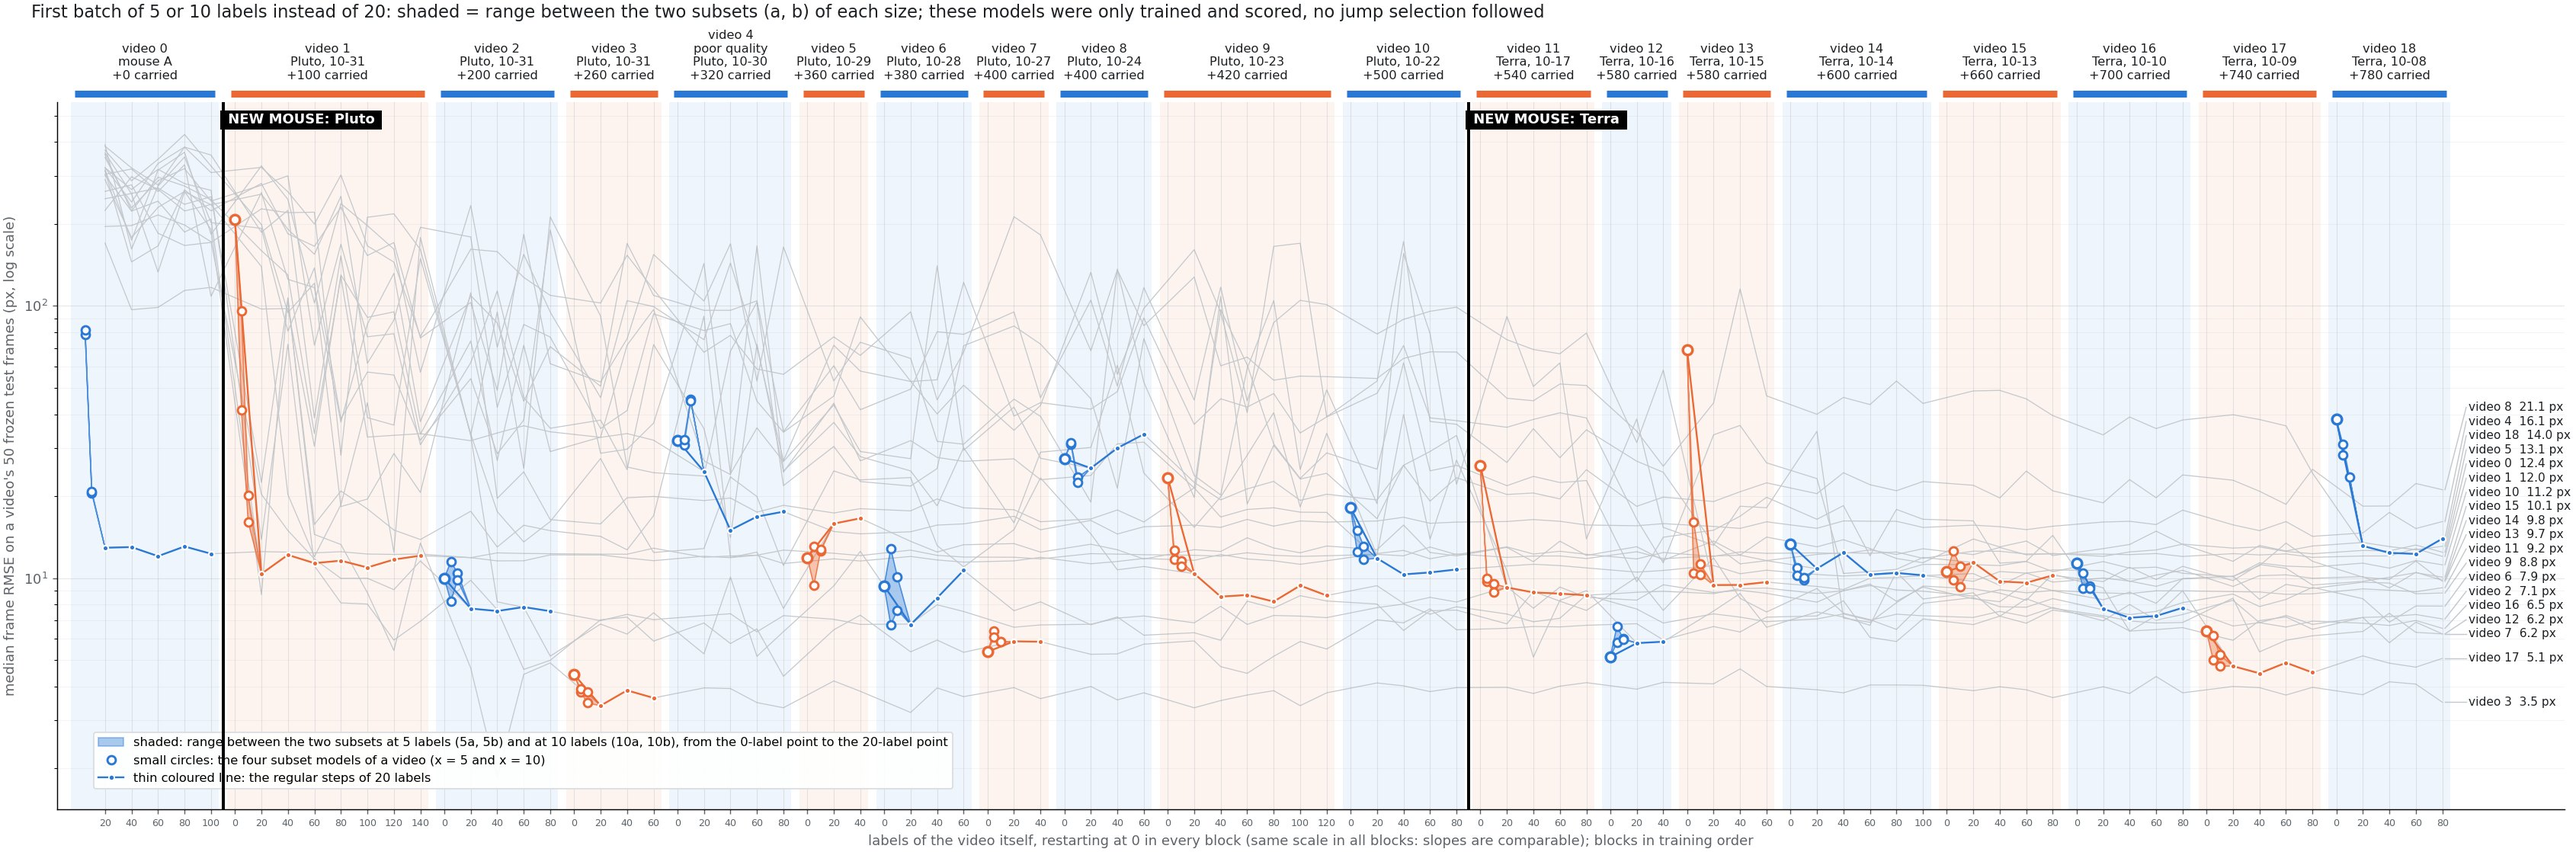
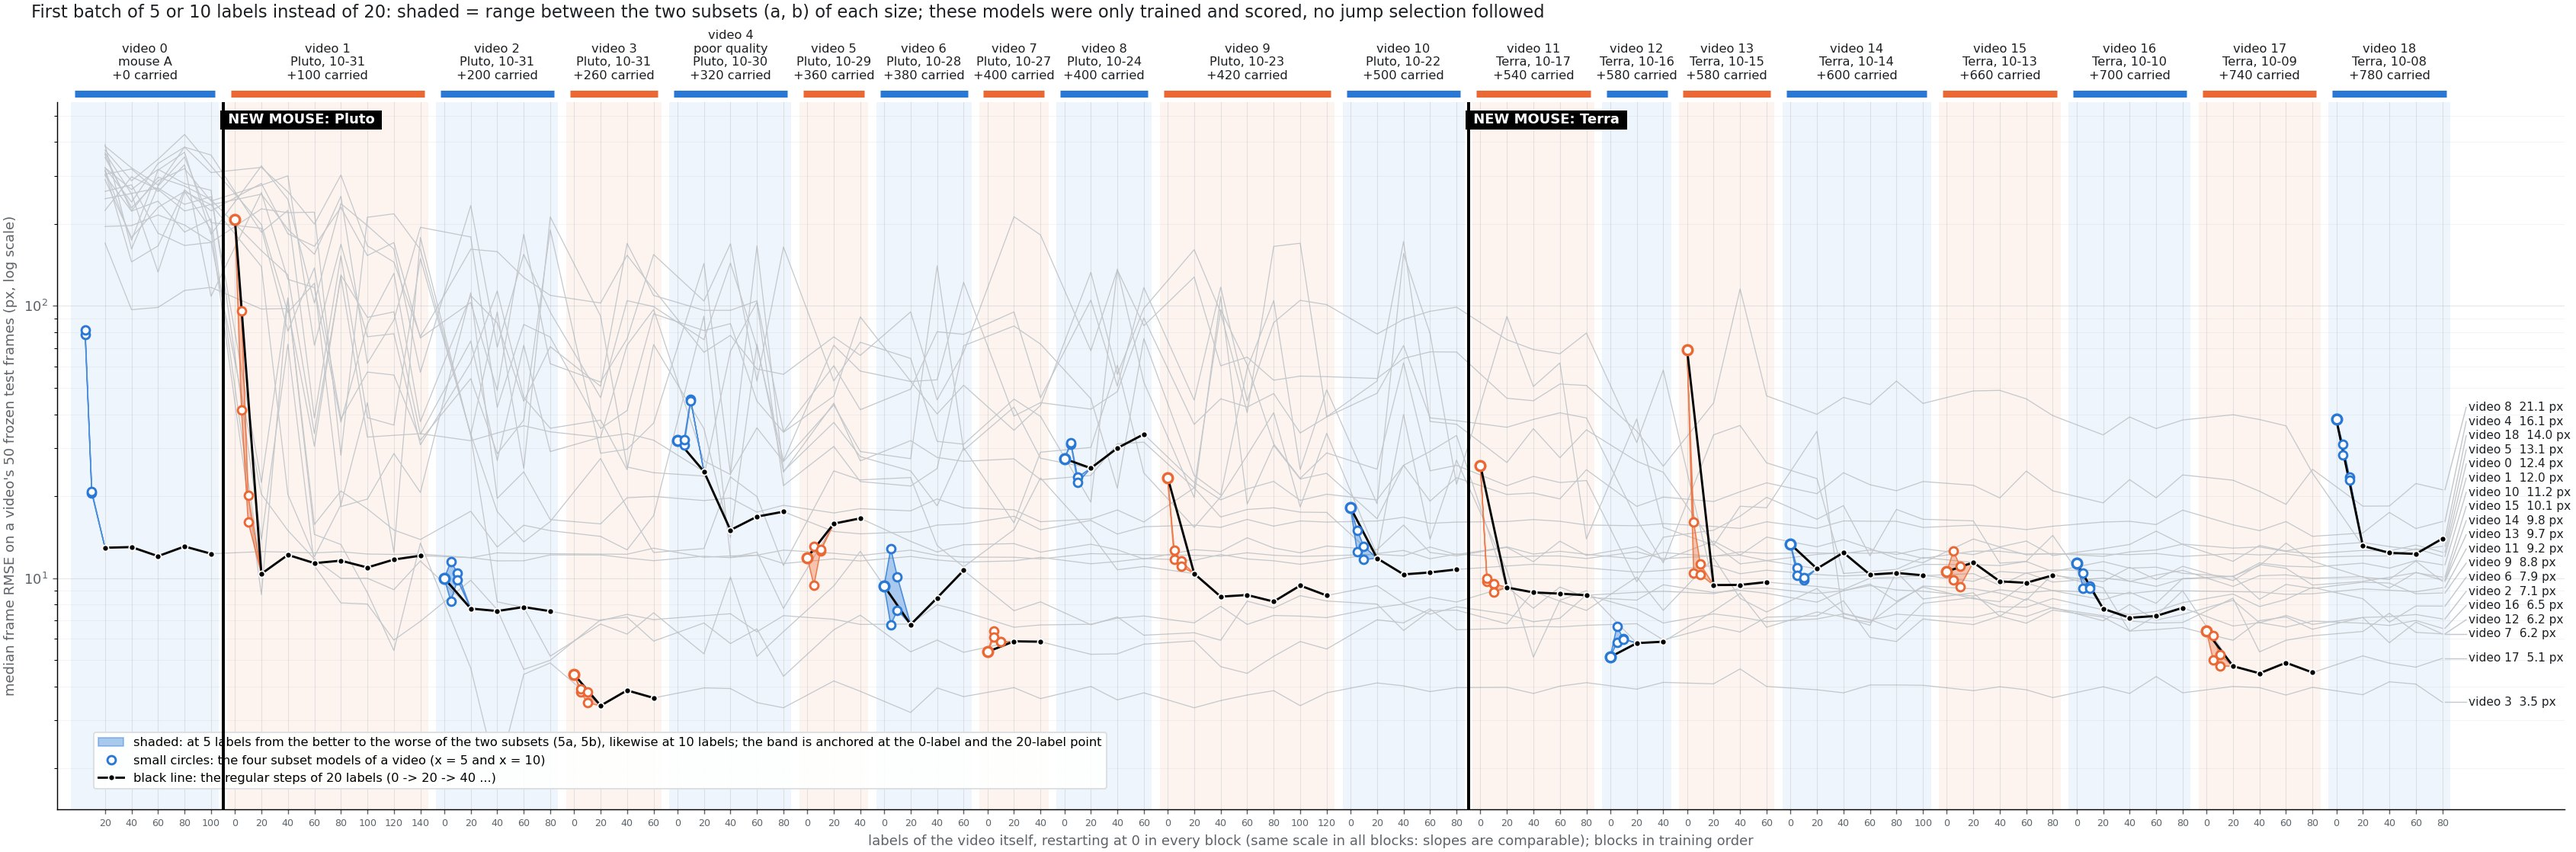
Figure 6-1: regular 0-20-40 steps drawn in black so they stand apart from the subset band; caption restructured and the band defined

diff --git a/report/index.html b/report/index.html
@@ -78,7 +78,7 @@ math[display="block"]{margin:10px 0 6px;text-align:left;overflow-x:auto;max-widt
 
 <header>
   <h1><span lang="zh">小鼠眼睛关键点追踪：做了什么，结果是什么</span><span lang="en">Mouse eye keypoint tracking: what was done and what came out</span></h1>
-  <p class="muted small">Zhiheng Li (University of Minnesota), Kaiwen Sheng (Stanford) · <span lang="zh">页面生成时间</span><span lang="en">page built</span> 2026-10-23 20:45 · <a href="https://github.com/ZhihengLi0/mouse-behavior-tracking">GitHub: ZhihengLi0/mouse-behavior-tracking</a></p>
+  <p class="muted small">Zhiheng Li (University of Minnesota), Kaiwen Sheng (Stanford) · <span lang="zh">页面生成时间</span><span lang="en">page built</span> 2026-10-23 21:01 · <a href="https://github.com/ZhihengLi0/mouse-behavior-tracking">GitHub: ZhihengLi0/mouse-behavior-tracking</a></p>
 
   <div class="text" lang="zh">
     <p><b>任务：</b>用 DeepLabCut 在小鼠眼睛视频的每一帧上找 8 个点：瞳孔上、下、左、右，上眼睑、下眼睑，鼻侧眼角、颞侧眼角。由这 8 个点得到瞳孔大小、眼睛睁开程度和眨眼，之后与脑记录对齐。</p>
@@ -825,8 +825,20 @@ math[display="block"]{margin:10px 0 6px;text-align:left;overflow-x:auto;max-widt
   <p class="text" lang="en"><span class="hl">To be clear: the 5- and 10-label models were run afterwards only to look at the result; they were trained and scored, and were not used for jump selection or followed by more labeling. On the main line the jump rule is first used after the model of the first 20 labels. The results of this step therefore only answer "how large should the first batch be"; they do not represent a procedure of "5 labels first, then jump-selected labels".</span></p>
   <figure>
     <div class="figbox scroll"><img src="assets/all_view_fewer.jpg" alt="All videos, first batch of 5 or 10 labels" style="width:2400px"></div>
-    <figcaption lang="zh"><span class="tag">图 6-1：</span>和图 5-4 是同一张图，这里突出 5 帧和 10 帧。每个色块里，空心圆从左到右是：0 帧、5 帧的两组（5a、5b，画在同一个横坐标上）、10 帧的两组（10a、10b），然后接到 20 帧的点。色带是两组结果之间的范围：色带窄，说明两组结果接近；色带宽，说明换一组帧结果差很多（例如视频 1 的 5 帧、视频 6 的 5 帧）。细的彩色线是正常的每步 20 帧。图很宽，可以左右拖动。</figcaption>
-    <figcaption lang="en"><span class="tag">Figure 6-1:</span>The same figure as Figure 5-4, here with the 5- and 10-label models emphasized. In each block the open circles are, from left to right: 0 labels, the two 5-label subsets (5a, 5b, at the same x), the two 10-label subsets (10a, 10b), joined to the 20-label point. The band is the range between the two subsets: a narrow band means the two results agree, a wide band means that another choice of frames gives a very different result (e.g. 5 labels on video 1 or on video 6). The thin coloured line is the regular procedure of 20 labels per step. The figure is wide; scroll sideways.</figcaption>
+    <figcaption lang="zh"><span class="tag">图 6-1：</span>和图 5-4 是同一张图，这里突出 5 帧和 10 帧。图很宽，可以左右拖动。
+      <ul>
+        <li>黑线：正常流程，0 帧 → 20 帧 → 40 帧 …。</li>
+        <li>空心圆：5 帧的两组（5a、5b，画在同一个横坐标上）和 10 帧的两组（10a、10b）。</li>
+        <li>色带：5 帧处从两组里较好的到较差的，10 帧处同样，两端收拢到 0 帧和 20 帧的点。色带窄，两组结果接近；色带宽，换一组帧结果差很多（例如视频 1 和视频 6 的 5 帧）。</li>
+      </ul>
+    </figcaption>
+    <figcaption lang="en"><span class="tag">Figure 6-1:</span>The same figure as Figure 5-4, here with the 5- and 10-label models emphasized. The figure is wide; scroll sideways.
+      <ul>
+        <li>Black line: the regular procedure, 0 labels → 20 → 40 ….</li>
+        <li>Open circles: the two 5-label subsets (5a, 5b, at the same x) and the two 10-label subsets (10a, 10b).</li>
+        <li>Band: at 5 labels from the better to the worse of the two subsets, likewise at 10 labels, closing onto the 0-label and 20-label points. A narrow band means the two subsets agree; a wide one means another choice of frames gives a very different result (e.g. 5 labels on videos 1 and 6).</li>
+      </ul>
+    </figcaption>
   </figure>
   <div class="tablebox">
     <table>

diff --git a/report/template.html b/report/template.html
@@ -771,8 +771,20 @@ math[display="block"]{margin:10px 0 6px;text-align:left;overflow-x:auto;max-widt
   <p class="text" lang="en"><span class="hl">To be clear: the 5- and 10-label models were run afterwards only to look at the result; they were trained and scored, and were not used for jump selection or followed by more labeling. On the main line the jump rule is first used after the model of the first 20 labels. The results of this step therefore only answer "how large should the first batch be"; they do not represent a procedure of "5 labels first, then jump-selected labels".</span></p>
   <figure>
     <div class="figbox scroll"><img src="assets/all_view_fewer.jpg" alt="All videos, first batch of 5 or 10 labels" style="width:2400px"></div>
-    <figcaption lang="zh"><span class="tag">图 6-1：</span>和图 5-4 是同一张图，这里突出 5 帧和 10 帧。每个色块里，空心圆从左到右是：0 帧、5 帧的两组（5a、5b，画在同一个横坐标上）、10 帧的两组（10a、10b），然后接到 20 帧的点。色带是两组结果之间的范围：色带窄，说明两组结果接近；色带宽，说明换一组帧结果差很多（例如视频 1 的 5 帧、视频 6 的 5 帧）。细的彩色线是正常的每步 20 帧。图很宽，可以左右拖动。</figcaption>
-    <figcaption lang="en"><span class="tag">Figure 6-1:</span>The same figure as Figure 5-4, here with the 5- and 10-label models emphasized. In each block the open circles are, from left to right: 0 labels, the two 5-label subsets (5a, 5b, at the same x), the two 10-label subsets (10a, 10b), joined to the 20-label point. The band is the range between the two subsets: a narrow band means the two results agree, a wide band means that another choice of frames gives a very different result (e.g. 5 labels on video 1 or on video 6). The thin coloured line is the regular procedure of 20 labels per step. The figure is wide; scroll sideways.</figcaption>
+    <figcaption lang="zh"><span class="tag">图 6-1：</span>和图 5-4 是同一张图，这里突出 5 帧和 10 帧。图很宽，可以左右拖动。
+      <ul>
+        <li>黑线：正常流程，0 帧 → 20 帧 → 40 帧 …。</li>
+        <li>空心圆：5 帧的两组（5a、5b，画在同一个横坐标上）和 10 帧的两组（10a、10b）。</li>
+        <li>色带：5 帧处从两组里较好的到较差的，10 帧处同样，两端收拢到 0 帧和 20 帧的点。色带窄，两组结果接近；色带宽，换一组帧结果差很多（例如视频 1 和视频 6 的 5 帧）。</li>
+      </ul>
+    </figcaption>
+    <figcaption lang="en"><span class="tag">Figure 6-1:</span>The same figure as Figure 5-4, here with the 5- and 10-label models emphasized. The figure is wide; scroll sideways.
+      <ul>
+        <li>Black line: the regular procedure, 0 labels → 20 → 40 ….</li>
+        <li>Open circles: the two 5-label subsets (5a, 5b, at the same x) and the two 10-label subsets (10a, 10b).</li>
+        <li>Band: at 5 labels from the better to the worse of the two subsets, likewise at 10 labels, closing onto the 0-label and 20-label points. A narrow band means the two subsets agree; a wide one means another choice of frames gives a very different result (e.g. 5 labels on videos 1 and 6).</li>
+      </ul>
+    </figcaption>
   </figure>
   <div class="tablebox">
     <table>

diff --git a/report/index_en.html b/report/index_en.html
@@ -75,7 +75,7 @@ math[display="block"]{margin:10px 0 6px;text-align:left;overflow-x:auto;max-widt
 
 <header>
   <h1><span lang="en">Mouse eye keypoint tracking: what was done and what came out</span></h1>
-  <p class="muted small">Zhiheng Li (University of Minnesota), Kaiwen Sheng (Stanford) · <span lang="en">page built</span> 2026-10-23 20:45 · <a href="https://github.com/ZhihengLi0/mouse-behavior-tracking">GitHub: ZhihengLi0/mouse-behavior-tracking</a></p>
+  <p class="muted small">Zhiheng Li (University of Minnesota), Kaiwen Sheng (Stanford) · <span lang="en">page built</span> 2026-10-23 21:01 · <a href="https://github.com/ZhihengLi0/mouse-behavior-tracking">GitHub: ZhihengLi0/mouse-behavior-tracking</a></p>
 
   
   <div class="text" lang="en">
@@ -626,7 +626,13 @@ math[display="block"]{margin:10px 0 6px;text-align:left;overflow-x:auto;max-widt
   <figure>
     <div class="figbox scroll"><img src="assets/all_view_fewer.jpg" alt="All videos, first batch of 5 or 10 labels" style="width:2400px"></div>
     
-    <figcaption lang="en"><span class="tag">Figure 6-1:</span>The same figure as Figure 5-4, here with the 5- and 10-label models emphasized. In each block the open circles are, from left to right: 0 labels, the two 5-label subsets (5a, 5b, at the same x), the two 10-label subsets (10a, 10b), joined to the 20-label point. The band is the range between the two subsets: a narrow band means the two results agree, a wide band means that another choice of frames gives a very different result (e.g. 5 labels on video 1 or on video 6). The thin coloured line is the regular procedure of 20 labels per step. The figure is wide; scroll sideways.</figcaption>
+    <figcaption lang="en"><span class="tag">Figure 6-1:</span>The same figure as Figure 5-4, here with the 5- and 10-label models emphasized. The figure is wide; scroll sideways.
+      <ul>
+        <li>Black line: the regular procedure, 0 labels → 20 → 40 ….</li>
+        <li>Open circles: the two 5-label subsets (5a, 5b, at the same x) and the two 10-label subsets (10a, 10b).</li>
+        <li>Band: at 5 labels from the better to the worse of the two subsets, likewise at 10 labels, closing onto the 0-label and 20-label points. A narrow band means the two subsets agree; a wide one means another choice of frames gives a very different result (e.g. 5 labels on videos 1 and 6).</li>
+      </ul>
+    </figcaption>
   </figure>
   <div class="tablebox">
     <table>

diff --git a/v2_new_pupil_top_video_scaling/scripts/plot_all_videos_views.py b/v2_new_pupil_top_video_scaling/scripts/plot_all_videos_views.py
@@ -107,8 +107,12 @@ for FOCUS in ("main", "fewer", "backtest"):
             ax.plot([own.x.max()], [own.median_frame_rmse_px.iloc[-1]], "o", color=vc, ms=6, mec="white", mew=1.1, zorder=5)
             after_col[u] = vc
             continue
-        ax.plot(px, py, "-", color=col, lw=2.6 if FOCUS == "main" else 1.3, zorder=4, solid_joinstyle="round")
-        ax.plot(own.x, own.median_frame_rmse_px, "o", color=col, ms=6.5 if FOCUS == "main" else 4, mec="white", mew=1.2, zorder=5)
+        if FOCUS == "fewer":                                          # the regular 0 -> 20 -> 40 ... steps in black, so they stand apart from the coloured band
+            ax.plot(px, py, "-", color="black", lw=1.6, zorder=4, solid_joinstyle="round")
+            ax.plot(own.x, own.median_frame_rmse_px, "o", color="black", ms=4.5, mec="white", mew=1.0, zorder=5)
+        else:
+            ax.plot(px, py, "-", color=col, lw=2.6, zorder=4, solid_joinstyle="round")
+            ax.plot(own.x, own.median_frame_rmse_px, "o", color=col, ms=6.5, mec="white", mew=1.2, zorder=5)
         if u in zero_slot:
             ax.plot([zero_slot[u]], [float(zero[u])], "o", color="white", ms=7, mec=col, mew=1.9, zorder=5)
         sub = m[(m.test_unit == u) & (m.subset != "") & (m.model_unit == u)]
@@ -145,9 +149,9 @@ for FOCUS in ("main", "fewer", "backtest"):
     h = {"main": [plt.Line2D([], [], color=ACCENT[0], lw=2.6, marker="o", mec="white", mew=1.2, ms=6.5, label="coloured: the test set of the video being trained in that block (colours alternate between blocks)"),
                   plt.Line2D([], [], color=ACCENT[0], lw=0, marker="o", mfc="white", mec=ACCENT[0], mew=1.9, ms=7, label="open circle at 0: that video before any label of its own (the model it started from)"),
                   plt.Line2D([], [], color=GREY, lw=1.1, label="grey: the same test sets outside their own block (named at the right end)")],
-         "fewer": [matplotlib.patches.Patch(facecolor=ACCENT[0], alpha=0.4, edgecolor=ACCENT[0], label="shaded: range between the two subsets at 5 labels (5a, 5b) and at 10 labels (10a, 10b), from the 0-label point to the 20-label point"),
+         "fewer": [matplotlib.patches.Patch(facecolor=ACCENT[0], alpha=0.4, edgecolor=ACCENT[0], label="shaded: at 5 labels from the better to the worse of the two subsets (5a, 5b), likewise at 10 labels; the band is anchored at the 0-label and the 20-label point"),
                    plt.Line2D([], [], color=ACCENT[0], lw=0, marker="o", mfc="white", mec=ACCENT[0], mew=1.6, ms=6, label="small circles: the four subset models of a video (x = 5 and x = 10)"),
-                   plt.Line2D([], [], color=ACCENT[0], lw=1.3, marker="o", mec="white", ms=4, label="thin coloured line: the regular steps of 20 labels")],
+                   plt.Line2D([], [], color="black", lw=1.6, marker="o", mec="white", ms=4.5, label="black line: the regular steps of 20 labels (0 -> 20 -> 40 ...)")],
          "backtest": [plt.Line2D([], [], color=VCOL["5_20251029_Pluto_spont_1"], lw=2.4, label="bold, one colour per video (black = mouse A, purple to green = Pluto, yellow = Terra): its test set scored by the models trained AFTER its own block"),
                       plt.Line2D([], [], color=VCOL["5_20251029_Pluto_spont_1"], lw=1.2, label="thin, same colour: inside its own block"),
                       plt.Line2D([], [], color=GREY, lw=1.1, label="grey: before its own block (the video not yet in the training set)")]}[FOCUS]
